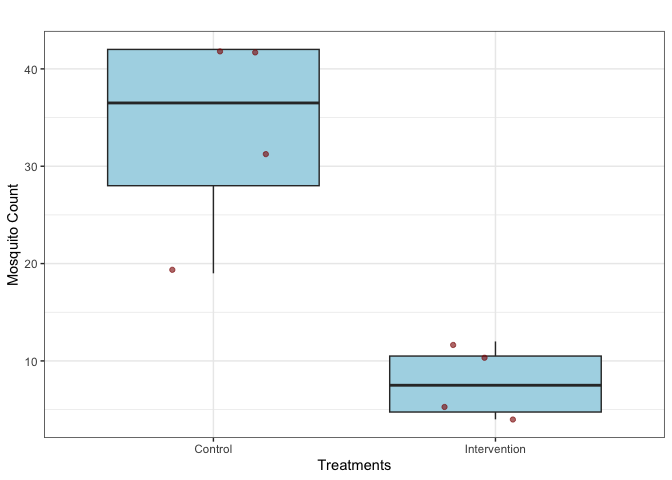
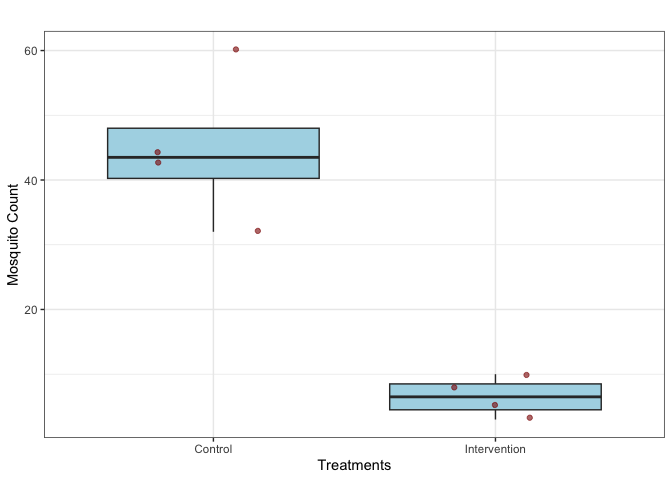
Deleted unwanted files

diff --git a/README.md b/README.md
@@ -32,29 +32,8 @@ from [GitHub](https://github.com/) with:
 # install.packages("devtools") # Run this manually if needed
 # Load "devtools" library before installing "powergene"
 library("devtools")
-#> Loading required package: usethis
 # Then, install the "powergene" package from github
 devtools::install_github("akipingu/powergene")
-#> Using GitHub PAT from the git credential store.
-#> Downloading GitHub repo akipingu/powergene@HEAD
-#> magrittr (2.0.3 -> 2.0.4) [CRAN]
-#> ggplot2  (3.5.2 -> 4.0.0) [CRAN]
-#> Installing 2 packages: magrittr, ggplot2
-#> Installing packages into '/private/var/folders/yy/rpq5vlf569g6wk875n3c94140000gn/T/RtmpmyScMu/temp_libpath20f21ccec10f'
-#> (as 'lib' is unspecified)
-#> 
-#> The downloaded binary packages are in
-#>  /var/folders/yy/rpq5vlf569g6wk875n3c94140000gn/T//RtmpCjKh3a/downloaded_packages
-#> ── R CMD build ─────────────────────────────────────────────────────────────────
-#> * checking for file ‘/private/var/folders/yy/rpq5vlf569g6wk875n3c94140000gn/T/RtmpCjKh3a/remotes24cd7cf16852/akipingu-powergene-80c6f0f/DESCRIPTION’ ... OK
-#> * preparing ‘powergene’:
-#> * checking DESCRIPTION meta-information ... OK
-#> * checking for LF line-endings in source and make files and shell scripts
-#> * checking for empty or unneeded directories
-#> Omitted ‘LazyData’ from DESCRIPTION
-#> * building ‘powergene_1.0.0.tar.gz’
-#> Installing package into '/private/var/folders/yy/rpq5vlf569g6wk875n3c94140000gn/T/RtmpmyScMu/temp_libpath20f21ccec10f'
-#> (as 'lib' is unspecified)
 
 #Finally, load the powergene package library
 library("powergene")
@@ -69,15 +48,16 @@ citation("powergene")
 #> To cite powergene in publications use:
 #> 
 #>   Kipingu, A.M., Kiware, S.S. (2025). "powergene: A generalizable
-#>   simulation-based power analysis R package to guide the design of
-#>   robust semi-field vector control experiments." R package available at
-#>   GitHub. <https://github.com/akipingu/powergene>.
+#>   simulation-based power analysis R package for semi-field vector
+#>   control trials ." R package available at GitHub.
+#>   <https://github.com/akipingu/powergene>.
 #> 
 #> A BibTeX entry for LaTeX users is
 #> 
 #>   @Misc{,
 #>     author = {{Kipingu, A.M.} and {Kiware, S.S.}},
-#>     title = {powergene: A generalizable simulation-based power analysis R package to guide the design of robust semi-field vector control experiments},
+#>     title = {powergene: A generalizable simulation-based power analysis R package for semi-field vector control trials
+#> },
 #>     year = {2025},
 #>     howpublished = {R package available at GitHub},
 #>     url = {https://github.com/akipingu/powergene},
@@ -142,14 +122,14 @@ sim.mosquitoes <- sim.mosq.shortsfe.sinint(
 sim.mosquitoes <- sim.mosquitoes[, c(-4,-5,-6)]
 sim.mosquitoes
 #>   replicates intvn chamber mosquito.count.fixed mosquito.count.random
-#> 1          1     0     0-1                   47                    65
-#> 2          2     0     0-2                   54                    19
-#> 3          3     0     0-3                   53                    93
-#> 4          4     0     0-4                   45                    26
-#> 5          1     1     1-1                    8                    10
-#> 6          2     1     1-2                   11                    11
-#> 7          3     1     1-3                    8                    17
-#> 8          4     1     1-4                   14                     5
+#> 1          1     0     0-1                   47                    43
+#> 2          2     0     0-2                   50                    53
+#> 3          3     0     0-3                   52                   130
+#> 4          4     0     0-4                   45                    34
+#> 5          1     1     1-1                    5                    13
+#> 6          2     1     1-2                    4                     6
+#> 7          3     1     1-3                    5                     7
+#> 8          4     1     1-4                   14                     9
 ```
 
 3.  Plot the simulated mosquitoes. This function plots a box plot with
@@ -168,7 +148,7 @@ sim.plot.shortsfe.sinint(
 )
 ```
 
-<img src="man/figures/README-unnamed-chunk-6-1.png" width="100%" />
+<img src="man/figures/README-unnamed-chunk-5-1.png" width="100%" />
 
 4.  Estimate p-value using sim.pval.shortsfe.sinint function by
     specifying the number of chambers per treatment, e.g., n.ch.per.trt
@@ -191,7 +171,7 @@ pvalue <- sim.pval.shortsfe.sinint(
 #output the p-values
 pvalue
 #>       pvalue 
-#> 9.219716e-15
+#> 4.590521e-06
 ```
 
 V. Since power cannot be estimated from a single simulation, there is a
@@ -264,7 +244,7 @@ for (i in seq_along(n.ch.values)) {
 #print the power results for each number of chambers per treatment
 round(power.df,2)
 #>   n.ch.per.trt power ci.lower ci.upper
-#> 1            2  0.99     0.95        1
+#> 1            2  0.98     0.93        1
 #> 2            4  1.00     0.96        1
 #> 3            6  1.00     0.96        1
 #> 4            8  1.00     0.96        1
@@ -273,6 +253,7 @@ round(power.df,2)
 7.  Plot the resulting power vs. number of chambers per treatment
 
 ``` r
+# install.packages("ggplot2") if not yet installed
 library(ggplot2)
 
 ggplot(power.df, aes(x = n.ch.per.trt, y = power)) +
@@ -291,7 +272,7 @@ ggplot(power.df, aes(x = n.ch.per.trt, y = power)) +
   theme_bw()
 ```
 
-<img src="man/figures/README-unnamed-chunk-10-1.png" width="100%" />
+<img src="man/figures/README-unnamed-chunk-9-1.png" width="100%" />
 
 8.  Now you can use the function to estimate power for varied number of
     chambers per treatment, e.g., 2,4,6,8 and varied effect size of an
@@ -351,24 +332,24 @@ for (i in seq_len(nrow(results))) {
 # print power estimates
 results
 #>    n.ch.per.trt interv.effect power   ci.lower  ci.upper
-#> 1             2           0.0  0.21 0.13494370 0.3029154
-#> 2             4           0.0  0.15 0.08645439 0.2353075
-#> 3             6           0.0  0.10 0.04900469 0.1762226
-#> 4             8           0.0  0.09 0.04198360 0.1639823
-#> 5             2           0.4  0.51 0.40803633 0.6113558
-#> 6             4           0.4  0.51 0.40803633 0.6113558
+#> 1             2           0.0  0.33 0.23919853 0.4311728
+#> 2             4           0.0  0.14 0.07870540 0.2237280
+#> 3             6           0.0  0.09 0.04198360 0.1639823
+#> 4             8           0.0  0.08 0.03517156 0.1515576
+#> 5             2           0.4  0.39 0.29401041 0.4926855
+#> 6             4           0.4  0.50 0.39832113 0.6016789
 #> 7             6           0.4  0.56 0.45718750 0.6591640
-#> 8             8           0.4  0.64 0.53787811 0.7335916
-#> 9             2           0.5  0.60 0.49720915 0.6967052
-#> 10            4           0.5  0.68 0.57923314 0.7697801
-#> 11            6           0.5  0.75 0.65344750 0.8312203
-#> 12            8           0.5  0.84 0.75321240 0.9056897
-#> 13            2           0.6  0.79 0.69708462 0.8650563
-#> 14            4           0.6  0.87 0.78795932 0.9289270
-#> 15            6           0.6  0.97 0.91482395 0.9937700
-#> 16            8           0.6  0.99 0.94554061 0.9997469
-#> 17            2           0.8  0.95 0.88716509 0.9835681
-#> 18            4           0.8  1.00 0.96378331 1.0000000
+#> 8             8           0.4  0.66 0.55846673 0.7517765
+#> 9             2           0.5  0.66 0.55846673 0.7517765
+#> 10            4           0.5  0.67 0.56882725 0.7608015
+#> 11            6           0.5  0.83 0.74182459 0.8977351
+#> 12            8           0.5  0.90 0.82377740 0.9509953
+#> 13            2           0.6  0.81 0.71930204 0.8815568
+#> 14            4           0.6  0.83 0.74182459 0.8977351
+#> 15            6           0.6  0.93 0.86108027 0.9713947
+#> 16            8           0.6  0.96 0.90074284 0.9889955
+#> 17            2           0.8  0.98 0.92961607 0.9975687
+#> 18            4           0.8  0.99 0.94554061 0.9997469
 #> 19            6           0.8  1.00 0.96378331 1.0000000
 #> 20            8           0.8  1.00 0.96378331 1.0000000
 ```
@@ -377,6 +358,7 @@ results
     treatment or effect sizes.
 
 ``` r
+# install.packages("ggplot2") if not yet installed
 library(ggplot2)
 results$interv.effect <- factor(results$interv.effect, levels = sort(unique(results$interv.effect), decreasing = TRUE))
 ggplot(results, aes(x = n.ch.per.trt, y = power, color = factor(interv.effect), group = interv.effect)) +
@@ -397,4 +379,4 @@ ggplot(results, aes(x = n.ch.per.trt, y = power, color = factor(interv.effect), 
   theme_bw()
 ```
 
-<img src="man/figures/README-unnamed-chunk-12-1.png" width="100%" />
+<img src="man/figures/README-unnamed-chunk-11-1.png" width="100%" />
